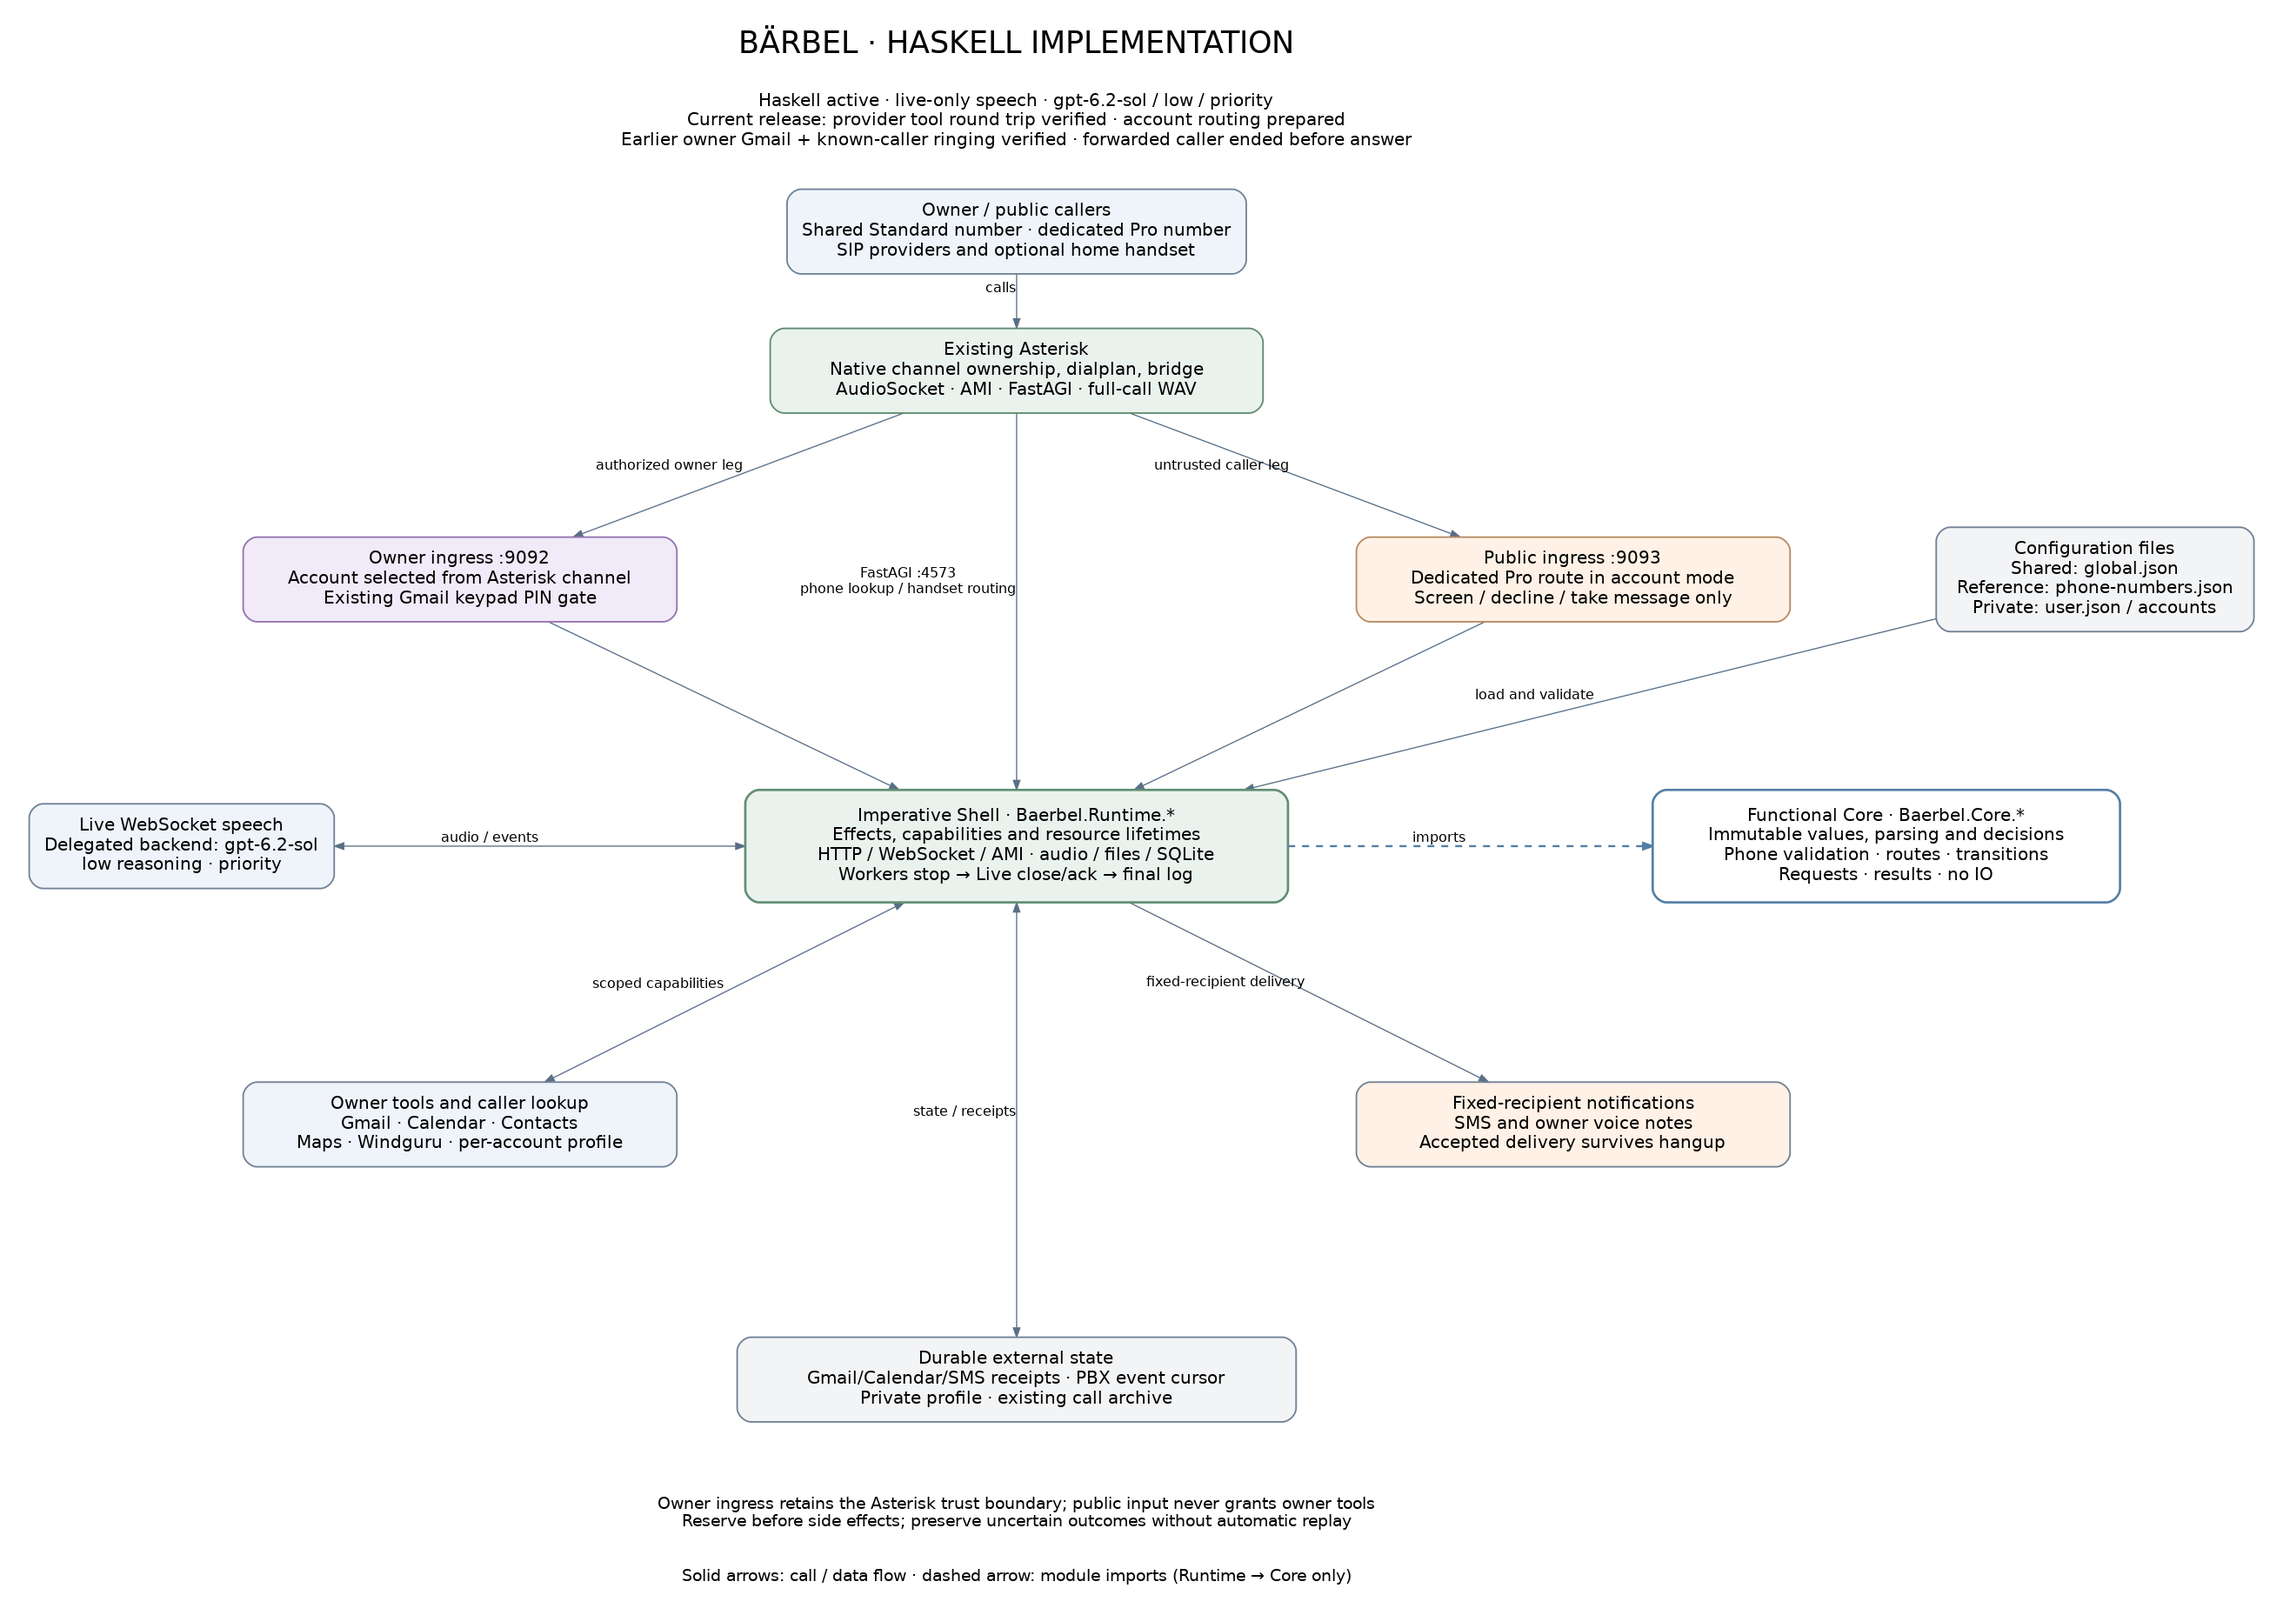
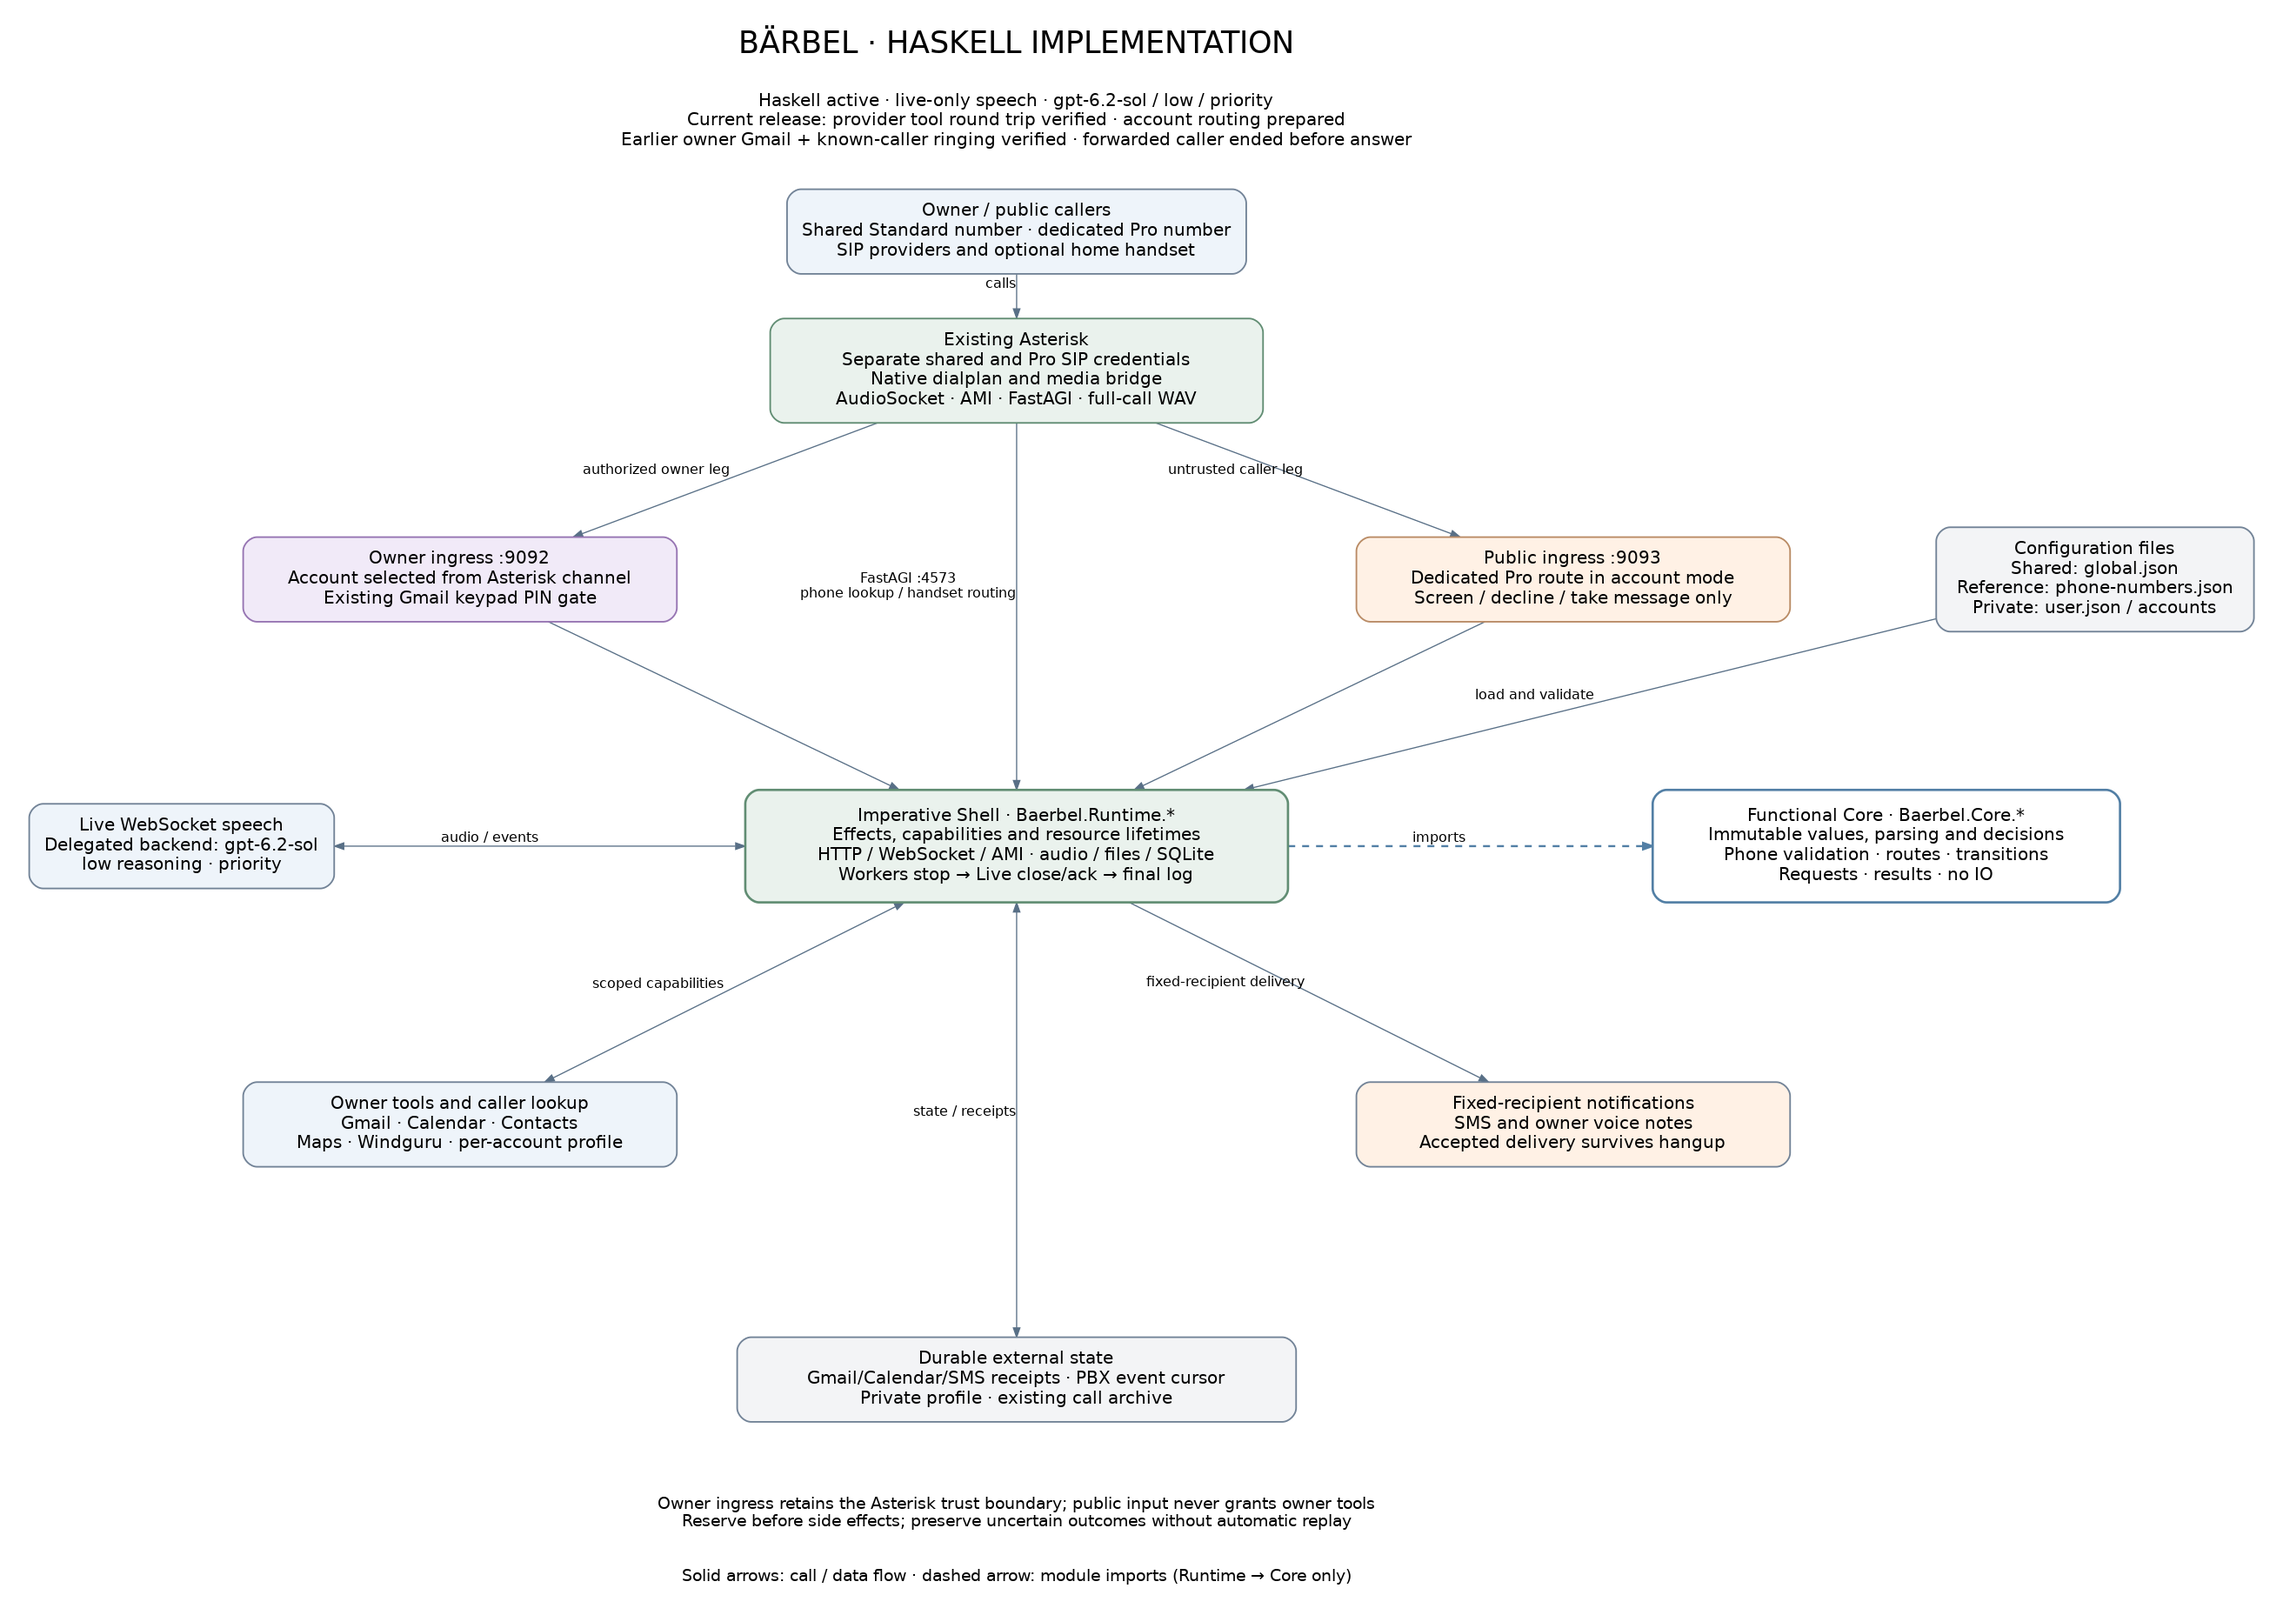
Use the supported SIP To header and verify it after restart

diff --git a/scripts/render-bristol-sip.py b/scripts/render-bristol-sip.py
@@ -23,7 +23,7 @@ def endpoint(text: str, name: str) -> str | None:
 
 def identifier_order(text: str) -> str | None:
     if GLOBAL.search(text) is None:
-        return text.rstrip() + "\n\n[baerbel-identification]\ntype=global\nendpoint_identifier_order=request_uri," + DEFAULT + "\n"
+        return text.rstrip() + "\n\n[baerbel-identification]\ntype=global\nendpoint_identifier_order=header," + DEFAULT + "\n"
     sections = list(SECTION.finditer(text))
     for current, following in zip(sections, sections[1:] + [None]):
         start = current.end()
@@ -33,7 +33,7 @@ def identifier_order(text: str) -> str | None:
             continue
         setting = ORDER.search(block)
         order = setting[2].strip() if setting else DEFAULT
-        ordered = ",".join(["request_uri"] + [item.strip() for item in order.split(",") if item.strip() != "request_uri"])
+        ordered = ",".join(["header"] + [item.strip() for item in order.split(",") if item.strip() != "header"])
         updated = ORDER.sub(lambda match: match[1] + ordered, block, count=1) if setting else block.rstrip() + "\nendpoint_identifier_order=" + ordered + "\n\n"
         return text[:start] + updated + text[end:]
     return None
@@ -50,17 +50,17 @@ def render(parent: str, trunk: str, dedicated: str, username: str, password: str
     if not re.fullmatch(r"[A-Za-z0-9_-]{1,64}", username) or not re.fullmatch(r"[A-Za-z0-9_.+-]{12,128}", password):
         return None
     clone = re.sub(r"^auth=.*$", "auth=phone-assistant-aa-bristol-auth", existing, flags=re.MULTILINE)
-    clone = re.sub(r"^identify_by=.*$", "identify_by=request_uri", clone, flags=re.MULTILINE)
-    if clone == existing or "identify_by=request_uri" not in clone or "auth=phone-assistant-aa-bristol-auth" not in clone:
+    clone = re.sub(r"^identify_by=.*$", "identify_by=header", clone, flags=re.MULTILINE)
+    if clone == existing or "identify_by=header" not in clone or "auth=phone-assistant-aa-bristol-auth" not in clone:
         return None
     permit = "\n".join("permit=" + network for network in carrier[1].split(","))
     national = dedicated[3:]
-    match = f"/^sips?:(0|0044|[+]?44){national}@/"
+    match = f"/sips?:(0|0044|[+]?44){national}@/"
     include = (
         f"[phone-assistant-aa-bristol]\n{clone}\ndeny=0.0.0.0/0\ndeny=::/0\n{permit}\n\n"
         f"[phone-assistant-aa-bristol-auth]\ntype=auth\nauth_type=userpass\nusername={username}\npassword={password}\n\n"
         "[phone-assistant-aa-bristol-identify]\ntype=identify\nendpoint=phone-assistant-aa-bristol\n"
-        f"match_request_uri={match}\n"
+        f"match_header=To: {match}\n"
     )
     updated = identifier_order(parent)
     if updated is None:

diff --git a/docs/architecture.md b/docs/architecture.md
@@ -27,7 +27,7 @@ The deployed configuration selects backend `gpt-6.2-sol`, reasoning effort `low`
 
 Production currently uses the existing single-user routing. The prepared account mode uses the same executable and an `accounts` map in the private user file. Each account records its name, plan, verified calling number, PIN hash, integration credentials and state paths. Shared infrastructure credentials stay in `environment`. Account fields cannot override the model, effort or voice. Configuration checks reject duplicate phones and shared account state paths.
 
-The shared telephone number serves Standard accounts after matching the registered caller number. Asterisk asks Bärbel to look up the phone through local FastAGI and marks the accepted channel with its account ID. The existing per-call PIN gate still applies to protected Gmail tools. A dedicated number routes its Pro owner through the same check and other calls into restricted screening. Asterisk supplies an account ID for screening, handoff announcements and the optional trusted handset. The runtime verifies the account against the matched AMI channel before picking the account's services, storage or managed audio registry. Telematica remains an Asterisk carrier binding. The prepared dialplan supports one dedicated number and the existing optional handset. See [configuration reference](configuration.md) for file locations and ownership.
+The shared telephone number serves Standard accounts after matching the registered caller number. Asterisk asks Bärbel to look up the phone through local FastAGI and marks the accepted channel with its account ID. The existing per-call PIN gate still applies to protected Gmail tools. A dedicated number routes its Pro owner through the same check and other calls into restricted screening. Asterisk authenticates the shared number and Bristol on separate SIP endpoints. Bristol is selected by the called To number and restricted to A&A source addresses. Asterisk supplies an account ID for screening, handoff announcements and the optional trusted handset. The runtime verifies the account against the matched AMI channel before picking the account's services, storage or managed audio registry. Telematica remains an Asterisk carrier binding. The prepared dialplan supports one dedicated number and the existing optional handset. See [configuration reference](configuration.md) for file locations and ownership.
 
 The operator provisions accounts privately and can issue a random four-digit PIN using `phone-assistant-server --issue-pin GLOBAL_CONFIG USER_CONFIG ACCOUNT`. This saves a salted hash and sends the PIN to the registered UK mobile through the existing SMS provider. The service reads account settings at startup. Provisioning and PIN changes use staged configuration so the running process and its routes can be switched together.
 

diff --git a/docs/configuration.md b/docs/configuration.md
@@ -27,10 +27,19 @@ On the current server the Google token paths point into
 New accounts get separate paths. The account file points to them and
 contains their PIN hashes.
 
-Asterisk's inbound SIP settings are in
-`/etc/asterisk/phone-assistant-pjsip.conf`. The outbound endpoint and
-handset settings are in `/etc/asterisk/phone-assistant-outbound.conf`.
-Telematica uses its own `phone-assistant-telematica-pjsip.conf` and
+SIP accounts and Bärbel user accounts are separate. Standard users share
+the old number's SIP endpoint and credentials. The Bristol Pro number
+has its own Asterisk endpoint and inbound password. Its SIP To number
+selects that endpoint before digest authentication. Asterisk also checks
+the carrier's source address. Bärbel selects the individual user only
+after Asterisk accepts the call.
+
+The shared inbound SIP settings are in
+`/etc/asterisk/phone-assistant-pjsip.conf`. The separate Pro endpoint and its
+password live in `/etc/asterisk/phone-assistant-bristol-pjsip.conf` with mode
+`0640`. The outbound endpoint and handset settings are in
+`/etc/asterisk/phone-assistant-outbound.conf`. Telematica uses its own
+`phone-assistant-telematica-pjsip.conf` and
 `phone-assistant-telematica-extensions.conf` in the same directory. Bärbel
 can request the configured Telematica route for an Austrian destination.
 
@@ -48,3 +57,13 @@ Until the privileged cutover, the private candidates are
 `~/.cache/baerbel-hs/deploy/account-routes` on the miniserver. The active
 service reads its existing private file until `make activate-accounts`
 installs the candidates. See [deployment](deployment.md).
+
+
+Asterisk's routing trace is controlled by `baerbel/account-routing-trace`
+in its database. The Bristol repair enables it. It appends only time,
+route and outcome to
+`/var/lib/phone-assistant-incoming-events/account-routing.log`. The service
+account can read the file. Use
+`sudo asterisk -rx 'database put baerbel account-routing-trace 0'` on the server
+to disable it. For failures before the dialplan, `make trace-carrier`
+captures a short redacted A&A SIP summary under `/run`.

diff --git a/deploy/asterisk/README.md b/deploy/asterisk/README.md
@@ -8,9 +8,13 @@ reloads it, restarts the assistant, and keeps the previous files for recovery.
   on one line. Both numbers use international format. The installer keeps a
   copy under `/etc/phone-assistant/`.
 
-The A&A incoming SIP target must preserve the called number in the Request-URI
-or To URI. A shared contact without a distinct called number is rejected. Use
-the existing authenticated A&A endpoint. Check both numbers with separate real
+The Bristol A&A account sends its called number in the SIP To header.
+Asterisk uses that header and a carrier address allowlist to select the
+separate Bristol endpoint and its digest password. The shared number keeps
+the existing endpoint and password. Run `make install-account-routing` after
+staging the corrected release. It verifies the SIP endpoint and identifier
+order after restarting idle Asterisk and checks the Haskell executable after
+activation. Check both numbers with separate real
 calls during cutover. Telematica continues through its existing provider
 endpoint and can reach the dedicated account's screening route. The existing
 handset can keep its trusted Home route when the dedicated account enables it.

diff --git a/architecture/README.md b/architecture/README.md
@@ -19,3 +19,5 @@ The source now has one production speech path: Live WebSocket audio with its del
 The design preserves existing call paths and owner/public permissions; deployment reuses the existing service. The detailed module and effect boundaries are described in [architecture.md](../docs/architecture.md). Keep policy, call flow and deployment claims consistent across those files. No private numbers, credentials or tokens belong here.
 
 The prepared account mode adds a shared Standard entry number and a dedicated Pro route on the existing Asterisk service. The diagram marks these routes as prepared. FastAGI matches the registered caller number, and AMI supplies the account for each authorized or restricted call. The running single-user routing remains in place until the privileged account cutover.
+
+The Bristol correction gives the shared number and dedicated Pro number separate Asterisk SIP credentials. The routing trace records only the selected route and outcome.

diff --git a/docs/deployment.md b/docs/deployment.md
@@ -53,6 +53,15 @@ with the account file. Confirm separate carrier delivery to the two numbers
 and check a Standard assistant call and a Pro incoming call after cutover.
 See [the routing template notes](../deploy/asterisk/README.md).
 
+## Repair Bristol SIP authentication
+
+If the account split is already active, stage the Bristol repair and run
+`make install-account-routing`. The installer preserves the user account
+file, splits the inbound SIP credentials and restarts Asterisk only after
+checking for active calls. It checks the new endpoint, SIP identifier order,
+dialplan and Haskell service. The trace is available to the service account
+as described in [the configuration reference](configuration.md).
+
 ## Restore Python
 
 ```sh
